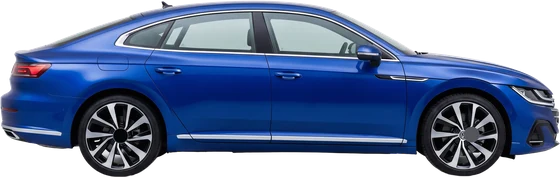
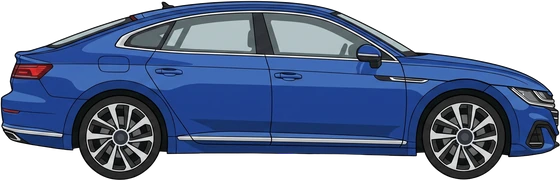
Detaillierte Zeichnung statt Foto, Schriftzug hoeher
Das Foto wirkte in der gezeichneten Nachtkulisse wie ein Fremdkoerper. Der
Wagen ist jetzt eine detaillierte Zeichnung mit derselben Form: gleiche
Silhouette, gleicher Radstand, gleiche Dachlinie, gleiche Felgen - nur als
saubere Illustration mit klaren Flaechen und Konturen, passend zum Rest der
Szene.

Der Schriftzug sass zu tief und beruehrte fast die Zierleiste am Schweller.
Er steht jetzt weiter oben, mittig auf den Tueren.

Wie beim Foto zuvor: Herstellerzeichen auf den Nabendeckeln durch neutrale
Kappen ersetzt. Die Datei bleibt mit 31 kB klein.

Claude-Session: https://claude.ai/code/session_015crEXq5GjAPSz1wYpUbYwK

diff --git a/src/components/curamus-wagen.tsx b/src/components/curamus-wagen.tsx
@@ -1,7 +1,11 @@
 /**
- * Der Curamus-Wagen in der Anfahrt-Anzeige: eine Fastback-Limousine in
- * Lapizblau, freigestellt vor durchsichtigem Hintergrund. Die Front zeigt nach
- * rechts – also in die Fahrtrichtung, in der der Wagen über die Strecke fährt.
+ * Der Curamus-Wagen in der Anfahrt-Anzeige: eine gezeichnete Fastback-Limousine
+ * in Lapizblau, freigestellt vor durchsichtigem Hintergrund. Die Front zeigt
+ * nach rechts – also in die Fahrtrichtung, in der der Wagen über die Strecke
+ * fährt.
+ *
+ * Eine detaillierte Zeichnung, kein Foto: Sie bleibt auf dem dunklen Untergrund
+ * klar lesbar und passt zur übrigen Kulisse, die ebenfalls gezeichnet ist.
  *
  * Auf den Türen steht die Wortmarke in Weiß, wie eine echte Fahrzeugbeschriftung.
  * Sie liegt als Text über dem Bild und nicht darin: so bleibt sie auf jedem
@@ -12,7 +16,7 @@
  */
 const BILD = "/wagen.webp";
 /** Seitenverhältnis der Bilddatei; hält den Platz frei, bevor das Bild da ist. */
-const VERHAELTNIS = "560 / 177";
+const VERHAELTNIS = "560 / 180";
 
 export function CuramusWagen({ className }: { className?: string }) {
   return (
@@ -38,7 +42,7 @@ export function CuramusWagen({ className }: { className?: string }) {
         className="pointer-events-none absolute select-none font-bold leading-none text-white"
         style={{
           left: "50.5%",
-          top: "70%",
+          top: "64%",
           transform: "translate(-50%, -50%)",
           fontSize: "5.2cqw",
           letterSpacing: "0.04em",
